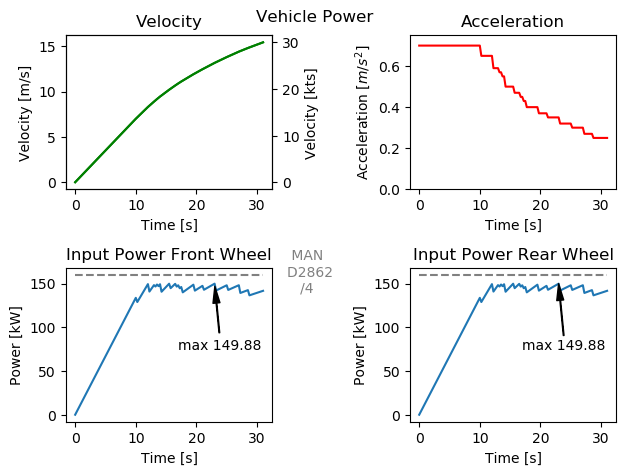
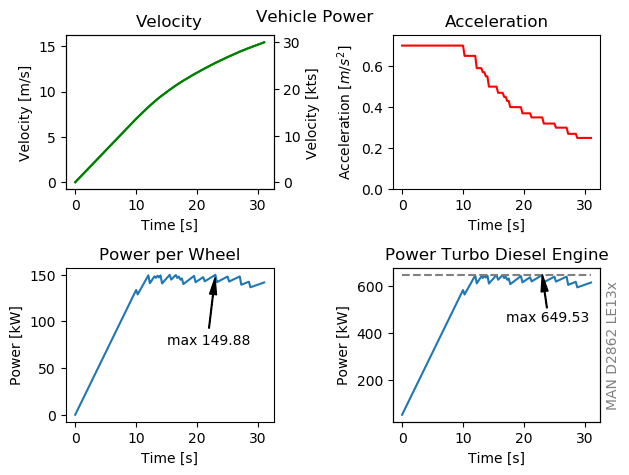
Changed car power plot to show wheel power and total power instead of front and rear

diff --git a/Power_new.py b/Power_new.py
@@ -170,11 +170,11 @@ def EGTS_tor_rpm_pow(torque, power, velocity, GR):
     ax1.set_xlabel("RPM")
     ax1.set_ylabel("Torque [Nm]")
     ax1.plot(RPM*GR, np.array(torque_out)/GR, 'red')
-    ax1.plot(T_ENG_268[0, :], T_ENG_268[1, :], 'darkgray', linestyle='--')
+    ax1.plot(T_ENG_268[0, :], T_ENG_268[1, :], 'gray', linestyle='--')
     ax = ax1.twinx()
-    ax.set_ylabel("EMRAX 268 PEAK", color='darkgray')
+    ax.set_ylabel("EMRAX 268 PEAK", color='gray')
     ax.tick_params(right=False, labelright=False)
-    #ax1.plot(T_ENG_268[0, :], T_ENG_268[1, :]*2, 'darkgray')
+    #ax1.plot(T_ENG_268[0, :], T_ENG_268[1, :]*2, 'gray')
     #ax1.plot(T_ENG_348[0, :], T_ENG_348[1, :], 'g')
     ax2 = fig.add_subplot(gs[1, 0])
     ax2.set_title("Ring Gear")
@@ -185,12 +185,12 @@ def EGTS_tor_rpm_pow(torque, power, velocity, GR):
     ax3.set_title("Engine")
     ax3.set_xlabel("RPM")
     ax3.set_ylabel("Power [kW]")
-    ax3.plot(P_ENG_268[0, :], P_ENG_268[1, :], 'darkgray', linestyle='--')
+    ax3.plot(P_ENG_268[0, :], P_ENG_268[1, :], 'gray', linestyle='--')
     ax = ax3.twinx()
-    ax.set_ylabel("EMRAX 268 PEAK", color='darkgray')
+    ax.set_ylabel("EMRAX 268 PEAK", color='gray')
     ax.tick_params(right=False, labelright=False)
 
-    #ax3.plot(P_ENG_268[0, :], P_ENG_268[1, :]*2, 'darkgray')
+    #ax3.plot(P_ENG_268[0, :], P_ENG_268[1, :]*2, 'gray')
     #ax3.plot(P_ENG_348[0, :], P_ENG_348[1, :], 'g')
     ax3.plot(RPM*GR, power_in/1000)
 
@@ -213,7 +213,7 @@ def s_v_a_plotter_egts(time, power, velocity, acceleration):
     """
     gs = gridspec.GridSpec(2, 2)  # Define figure layout
 
-    fig = plt.figure()
+    fig = plt.figure("Power Plane  Wheels")
     fig.suptitle("On Aircraft Power")
 
     # Find maximum
@@ -330,30 +330,31 @@ def s_v_a_plotter(time, power, velocity, acceleration):
     timemax_0 = time[time_idx_0]  # [s] Time Location max
 
     ax0 = fig.add_subplot(gs[1, 0])
-    ax0.set_title("Input Power Front Wheel")
+    ax0.set_title("Power per Wheel")
     ax0.set_xlabel("Time [s]")
     ax0.set_ylabel("Power [kW]")
     ax0.plot(time, [i/1000 for i in power[0, :]])
-    ax0.annotate(" MAN \nD2862 \n   /4 ", xy=(0, 0), xytext=(35, 140), color='gray')
-    ax0.annotate("max {pow}".format(pow=round(powermax_0, 2)), xy=(timemax_0, powermax_0), xytext=(timemax_0-6,
+    ax0.annotate("max {pow}".format(pow=round(powermax_0, 2)), xy=(timemax_0, powermax_0), xytext=(timemax_0-8,
                                         powermax_0-75), arrowprops=dict(facecolor='black',
                                             shrink=0.05, width=0.5, headwidth=5), )
-    ax0.plot(time, [160 for i in time], color='gray', linestyle='--')
     # Find maximum
-    powermax_1 = max(power[1, :])  # [W] Max power
+    powermax_1 = max(4*power[1, :]+50000)  # [W] Max power
     time_idx_1 = power[1, :].argmax()  # Index Time Location max
     powermax_1 = powermax_1/1000  # [kW] Max power
     timemax_1 = time[time_idx_1]  # [s] Time Location max
 
     ax1 = fig.add_subplot(gs[1, 1])
-    ax1.set_title("Input Power Rear Wheel")
+    ax1.set_title("Power Turbo Diesel Engine")
     ax1.set_xlabel("Time [s]")
     ax1.set_ylabel("Power [kW]")
-    ax1.plot(time, [i/1000 for i in power[1, :]])
+    ax1.plot(time, [4*i/1000+50 for i in power[1, :]])
     ax1.annotate("max {pow}".format(pow=round(powermax_1, 2)), xy=(timemax_1, powermax_1), xytext=(timemax_1-6,
-                                        powermax_1-75), arrowprops=dict(facecolor='black',
+                                        powermax_1-200), arrowprops=dict(facecolor='black',
                                             width=0.5, headwidth=5), )
-    ax1.plot(time, [160 for i in time], color='gray', linestyle='--')
+    ax1.plot(time, [650 for i in time], color='gray', linestyle='--')
+    ax = ax1.twinx()
+    ax.set_ylabel("MAN D2862 LE13x", color='gray')
+    ax.tick_params(right=False, labelright=False)
 
     # Velocity graphs
     ax2 = fig.add_subplot(gs[0, 0])
@@ -407,7 +408,7 @@ def static_power(velocity, time, ratio):
         P_car_2.append(j/1000)
     # Diagram w 4  plots
     P_plane = (1/n_emotor)*(1/n_gear)**amount_gears*np.array(P_plane_ring)
-    fig, axs = plt.subplots(4, sharex='row')
+    fig, axs = plt.subplots(4, sharex='row', num="Coasting Performance")
     fig.suptitle("Power Needed for Constant Velocity")
     axs[0].set_title("Velocity")
     axs[0].set_ylabel("Speed [m/s]")
@@ -576,7 +577,7 @@ def total_powerplot(P_nlg_tot, P_mlg_tot):
     :param P_mlg_tot: List with the required powers at different accelerations [W]
     :return: Nothing, just shows bar plot.
     """
-    fig = plt.figure()
+    fig = plt.figure("Power Fraction")
     N = 2  # numbers of bars
 
     # Other power components
@@ -624,7 +625,7 @@ def total_powerplot(P_nlg_tot, P_mlg_tot):
     # plt.yticks(np.arange(0, 3001, 150))
     plt.ylabel('Power [kW]')
     plt.title('Power Usage Different Cases')
-    plt.xticks(ind, ('Power\n ICO \n External VEH', 'External \n Vehicle', 'Power \n ICO \n APU Only'))
+    plt.xticks(ind, ('Power\n ICO \n External VEH', 'Power \n ICO \n APU Only'))
     plt.legend((p0[0], p1[0], p2[0], p10[0], p11[0], p12[0], p13[0]),
                ("APU available", EGTS[1], Pre_heat[1], P_car_prop[1], Steer_ex[1], Sensors[1], Airco_ex[1]),
                loc='center left', bbox_to_anchor=(1., 0.5))
@@ -744,10 +745,11 @@ print(" EGTS Only Performance Characteristics ".center(120, '#'))
 a_push, F_push, v_push, time_push = EGTS_only_perf(gearing_ratio_EGTS)
 
 print('\n \t\tMaximum Velocity: {v}\t Maximum Acceleration: {a}'.format(v=v_push[-1], a=max(a_push)))
-print(' \t\t\t0 -> {v} in {t} seconds'.format(v=round(v_push[31], 2), t=time_push[31]))
-print(' \t\t\t0 -> {v} in {t} seconds'.format(v=round(v_push[51], 2), t=time_push[51]))
-print(' \t\t\t0 -> {v} in {t} seconds'.format(v=round(v_push[-1], 2), t=time_push[-1]))
+print(' \t\t\t0 -> {v} m/s in {t} seconds'.format(v=round(v_push[31], 2), t=time_push[31]))
+print(' \t\t\t0 -> {v} m/s in {t} seconds'.format(v=round(v_push[51], 2), t=time_push[51]))
+print(' \t\t\t0 -> {v} m/s in {t} seconds'.format(v=round(v_push[-1], 2), t=time_push[-1]))
 
+print("\n \n Highest Force {F} kN".format(F=round(np.max(F_push),2)))
 for a_p in a_push:
     # Check if static friction is not exceeded
     if not stat_traction(a_p*97400*1.27/2, 97400*9.81, 1.27/2):
